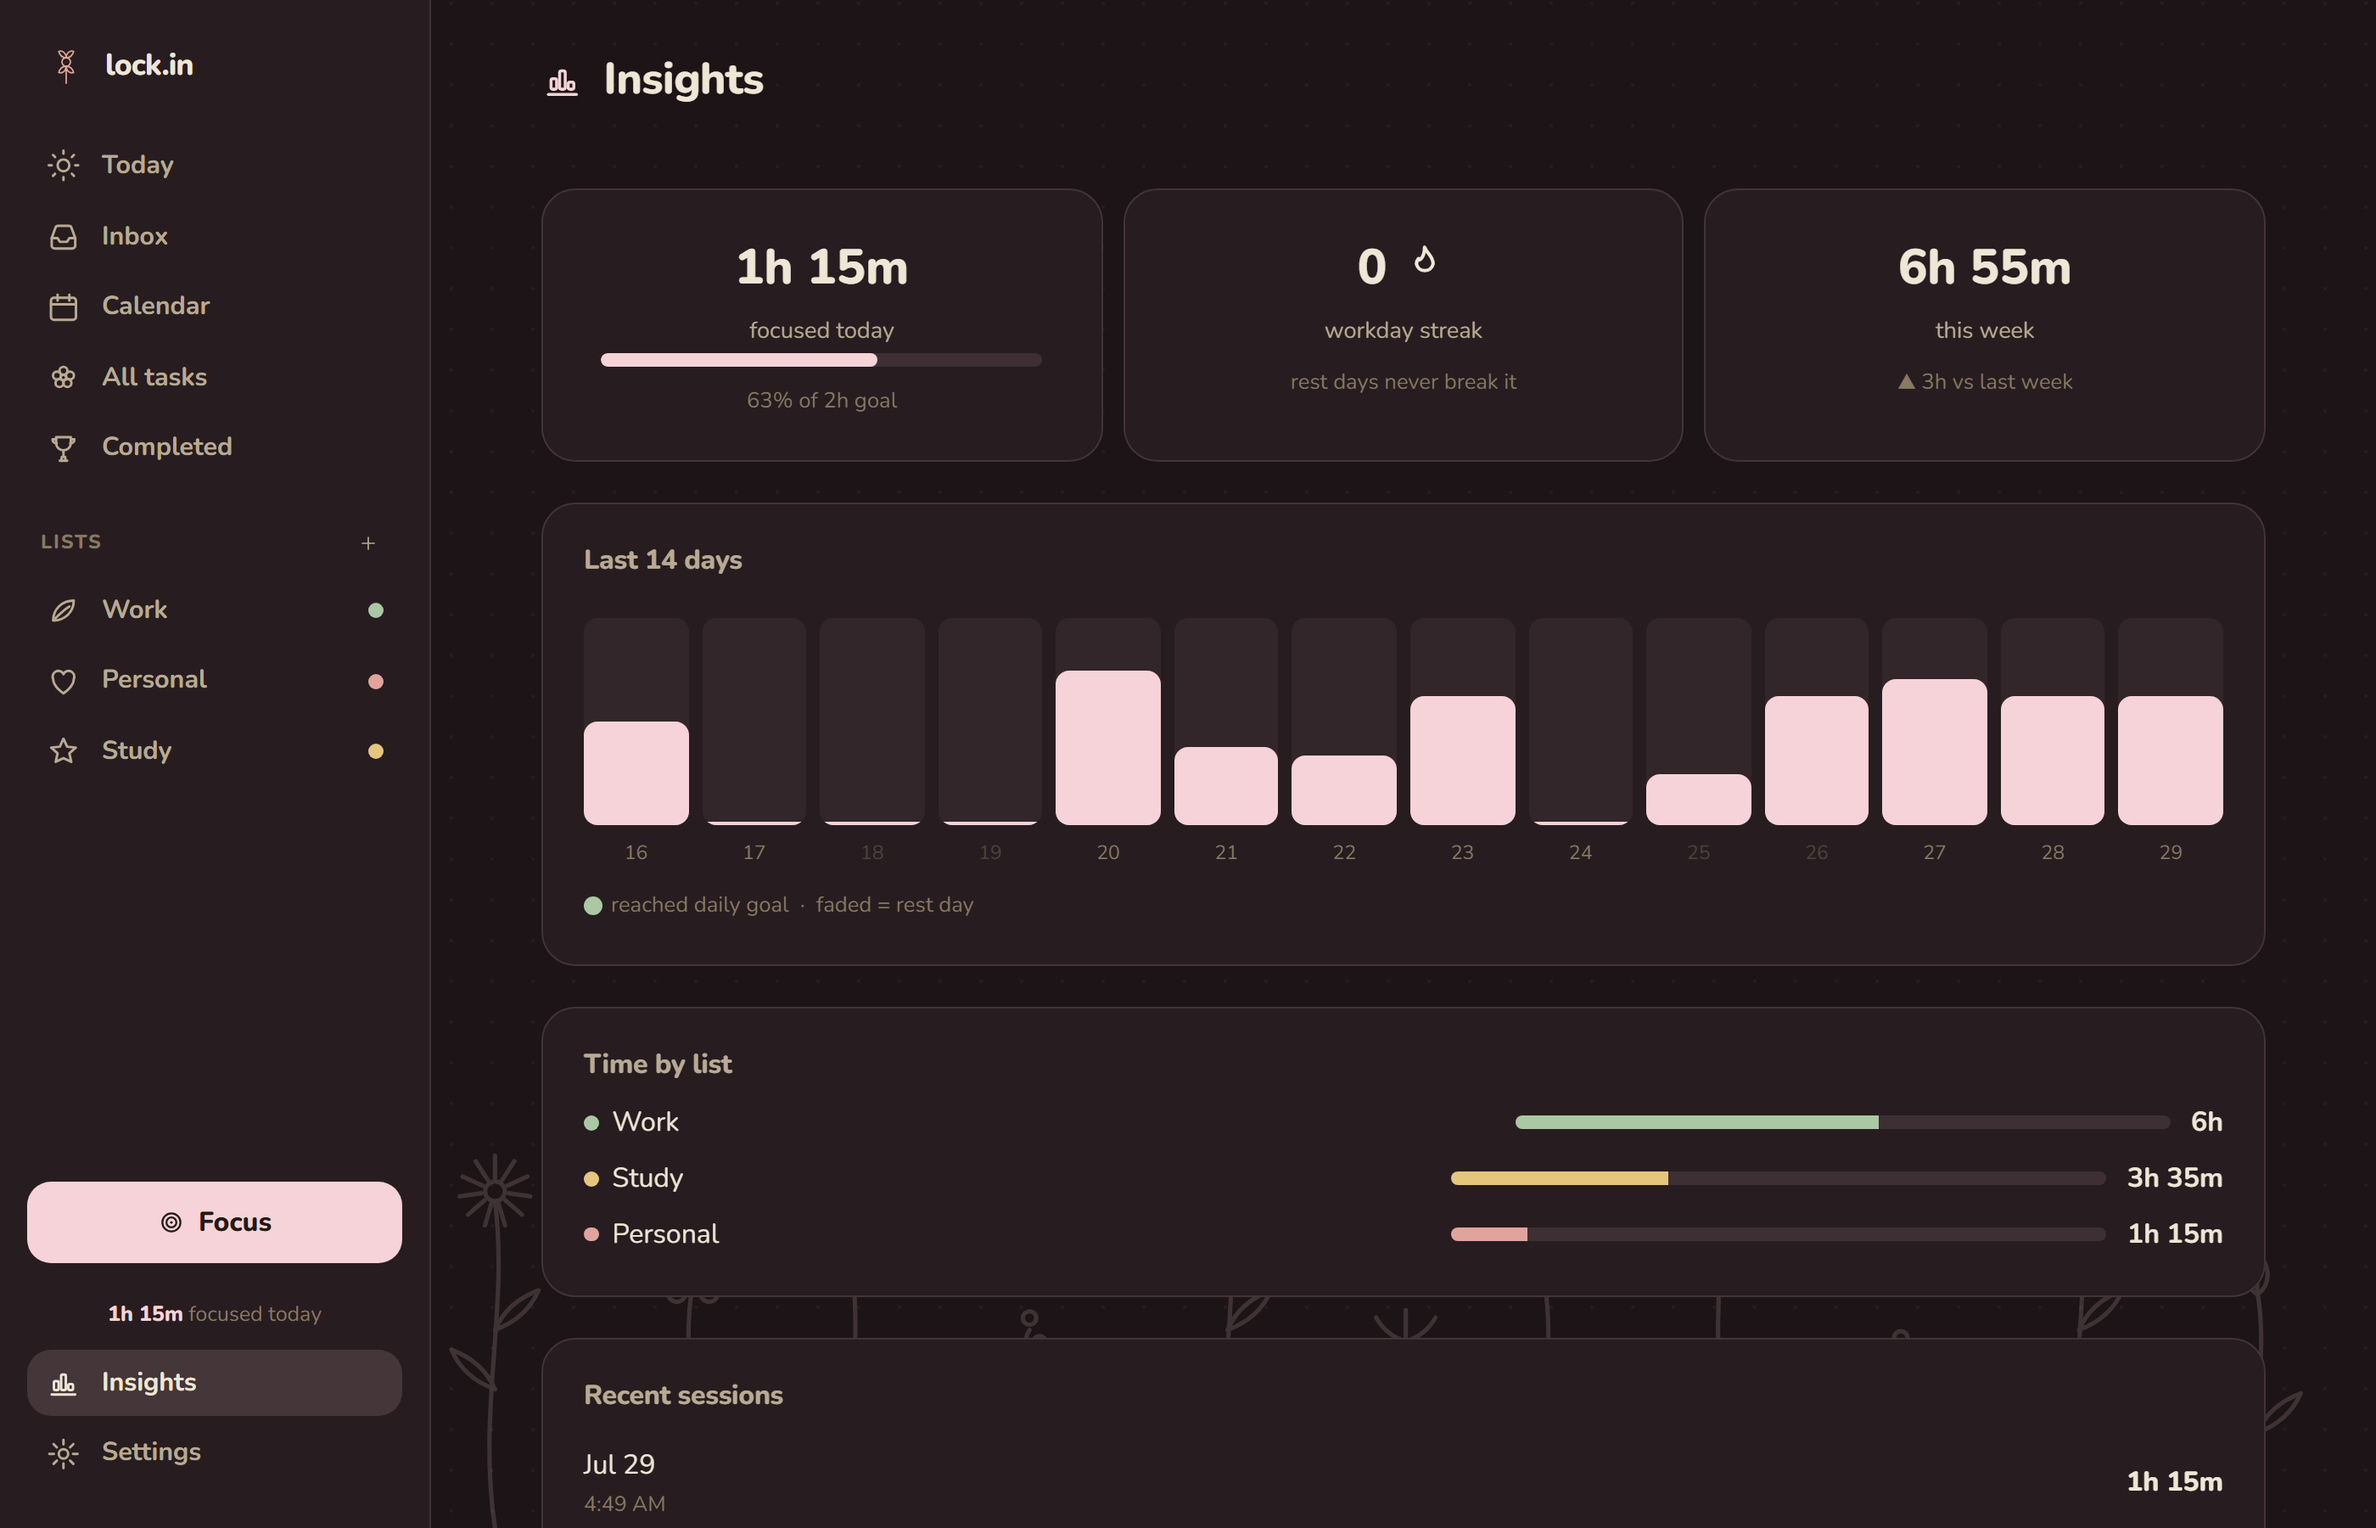
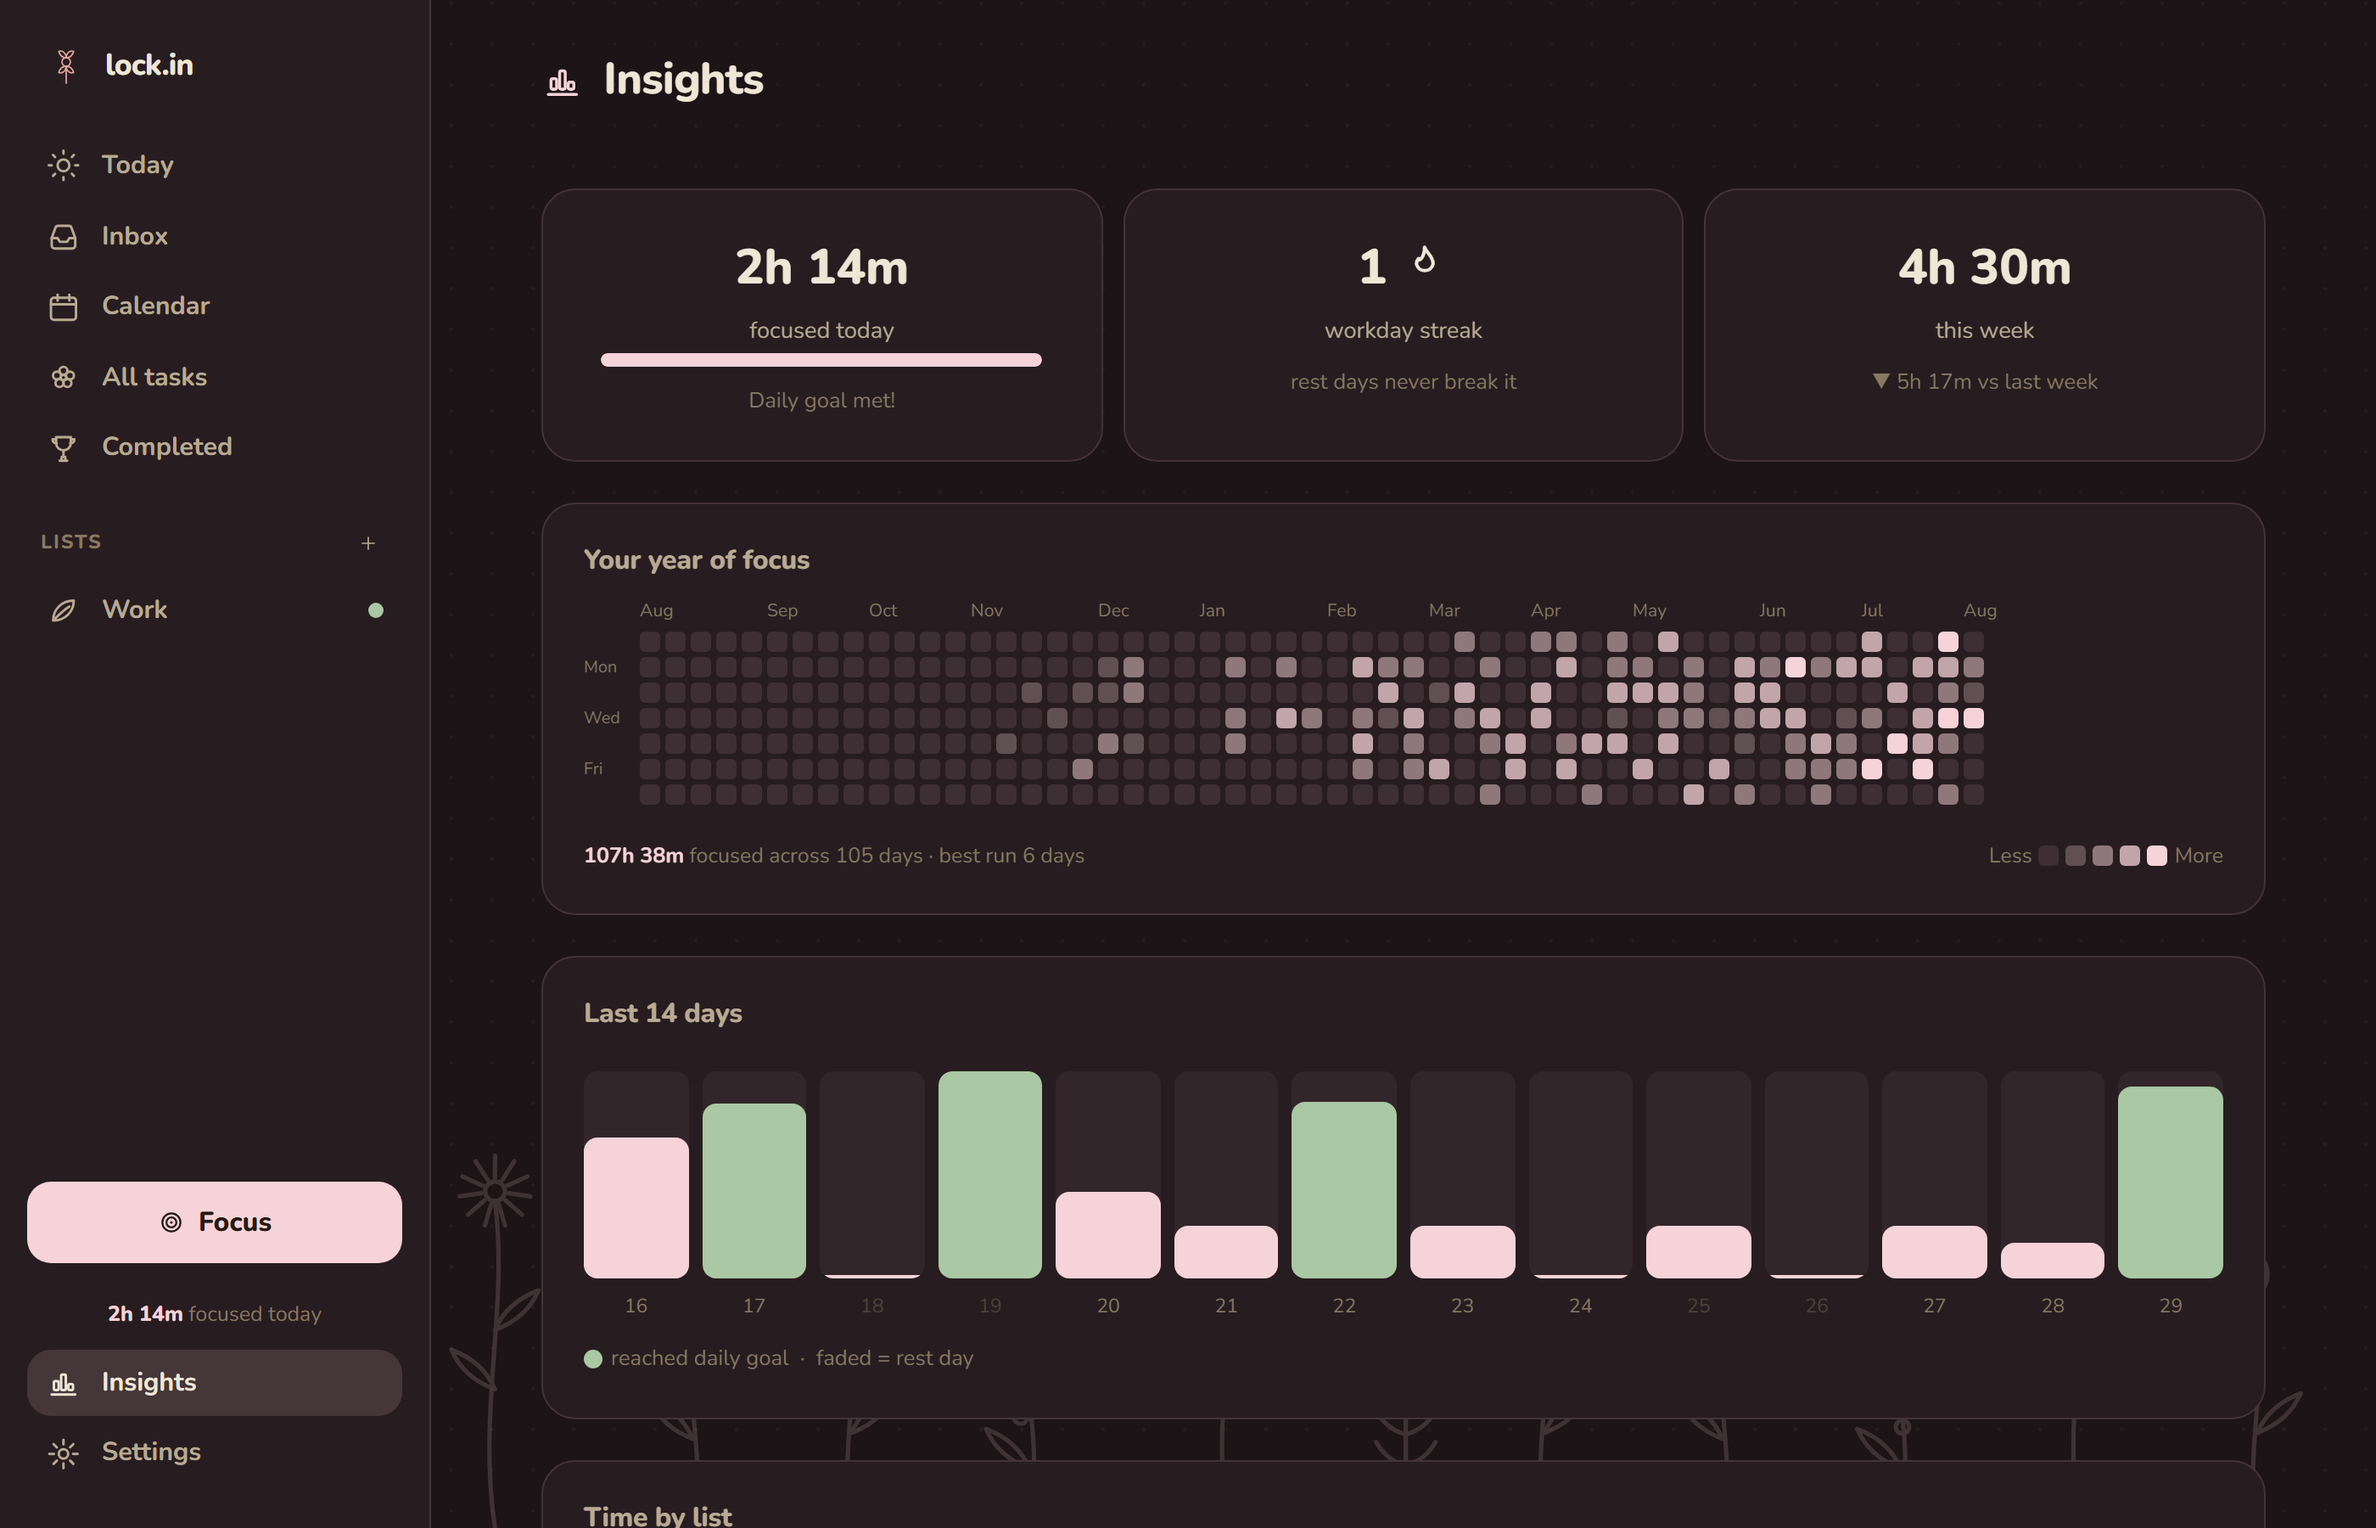
Add a year-of-focus heatmap to Insights
A contribution-graph style grid of the last 53 weeks, sitting above the 14-day
chart where it answers 'how much have I actually done' at a glance.

Intensity is measured against the daily goal rather than an arbitrary cut-off,
so the darkest square always means the goal was met. Days that haven't happened
yet stay blank, month labels only appear on weeks that genuinely start a month
(a partial month at the left edge would otherwise collide with the next label),
and the footer reports total time, active days and the longest run.

focusHeatmap() is pure and covered by 6 tests: week alignment, ending on the
current week, level thresholds, ignoring future days, run length and labelling.

Copilot-Session: 87884037-54d0-4967-b45f-3a055d461690

diff --git a/src/features/insights/aggregations.ts b/src/features/insights/aggregations.ts
@@ -148,6 +148,102 @@ export function currentStreak(
   return streak
 }
 
+export interface HeatCell {
+  dateKey: string
+  focusedMs: number
+  /** 0 = nothing, 4 = daily goal reached. */
+  level: 0 | 1 | 2 | 3 | 4
+}
+
+export interface HeatWeek {
+  /** Sunday-first; the leading week may start before the window. */
+  cells: HeatCell[]
+  /** Set on the first week of each month, for the labels across the top. */
+  monthLabel: string | null
+}
+
+export interface Heatmap {
+  weeks: HeatWeek[]
+  totalMs: number
+  /** Days with any focus at all. */
+  activeDays: number
+  /** Longest run of consecutive days with any focus. */
+  bestRun: number
+}
+
+const MONTHS = ['Jan', 'Feb', 'Mar', 'Apr', 'May', 'Jun', 'Jul', 'Aug', 'Sep', 'Oct', 'Nov', 'Dec']
+
+function levelFor(ms: number, goalMs: number): 0 | 1 | 2 | 3 | 4 {
+  if (ms <= 0) return 0
+  const pct = ms / goalMs
+  if (pct >= 1) return 4
+  if (pct >= 0.5) return 3
+  if (pct >= 0.25) return 2
+  return 1
+}
+
+/**
+ * A year of focus as a week-by-week grid, in the spirit of a contribution
+ * graph. Intensity is relative to the daily goal, so level 4 always means
+ * "hit the goal" rather than an arbitrary threshold.
+ */
+export function focusHeatmap(
+  segments: FocusSegment[],
+  settings: Settings,
+  nowTs: number = Date.now(),
+  weekCount = 53,
+): Heatmap {
+  const focus = focusedMsByDay(segments, nowTs)
+  const goalMs = Math.max(1, settings.dailyGoalMinutes * 60000)
+
+  // Walk back to the Sunday that starts the earliest week we show.
+  const today = new Date(nowTs)
+  today.setHours(12, 0, 0, 0)
+  const start = new Date(today)
+  start.setDate(start.getDate() - (weekCount - 1) * 7 - today.getDay())
+
+  const weeks: HeatWeek[] = []
+  let totalMs = 0
+  let activeDays = 0
+  let run = 0
+  let bestRun = 0
+  const cursor = new Date(start)
+  let lastMonth = -1
+
+  for (let w = 0; w < weekCount; w++) {
+    const cells: HeatCell[] = []
+    let monthLabel: string | null = null
+    for (let d = 0; d < 7; d++) {
+      const ts = cursor.getTime()
+      const dateKey = localDateKey(ts)
+      // Don't draw days that haven't happened yet.
+      const future = ts > today.getTime()
+      const focusedMs = future ? 0 : (focus.get(dateKey) ?? 0)
+      if (!future) {
+        totalMs += focusedMs
+        if (focusedMs > 0) {
+          activeDays++
+          run++
+          if (run > bestRun) bestRun = run
+        } else {
+          run = 0
+        }
+      }
+      cells.push({ dateKey, focusedMs, level: future ? 0 : levelFor(focusedMs, goalMs) })
+      // Label a column only when it actually contains the start of a month, so
+      // a partial month at the left edge doesn't crowd the next label.
+      if (cursor.getDate() <= 7 && cursor.getMonth() !== lastMonth) {
+        monthLabel = MONTHS[cursor.getMonth()]
+        lastMonth = cursor.getMonth()
+      }
+      cursor.setDate(cursor.getDate() + 1)
+    }
+    weeks.push({ cells, monthLabel })
+  }
+
+  return { weeks, totalMs, activeDays, bestRun }
+}
+
 export interface WeekComparison {
   thisWeekMs: number
   lastWeekMs: number

diff --git a/src/features/insights/aggregations.test.ts b/src/features/insights/aggregations.test.ts
@@ -4,6 +4,7 @@ import {
   completedByDay,
   currentStreak,
   weekComparison,
+  focusHeatmap,
 } from './aggregations'
 import type { FocusSegment, Task, Settings } from '../../domain/types'
 
@@ -103,5 +104,73 @@ describe('weekComparison', () => {
     expect(cmp.thisWeekMs).toBe(60 * 60000)
     expect(cmp.lastWeekMs).toBe(30 * 60000)
     expect(cmp.deltaMs).toBe(30 * 60000)
+  })
+})
+
+describe('focusHeatmap', () => {
+  // A Thursday, so the trailing week is partially in the future.
+  const now = new Date(2026, 6, 30, 15, 0, 0).getTime()
+
+  it('lays out whole Sunday-first weeks', () => {
+    const h = focusHeatmap([], settings, now, 5)
+    expect(h.weeks).toHaveLength(5)
+    for (const w of h.weeks) expect(w.cells).toHaveLength(7)
+    // Every row starts on a Sunday.
+    for (const w of h.weeks) {
+      expect(new Date(w.cells[0].dateKey + 'T12:00').getDay()).toBe(0)
+    }
+  })
+
+  it('ends on the week containing today', () => {
+    const h = focusHeatmap([], settings, now, 4)
+    const last = h.weeks[h.weeks.length - 1]
+    expect(last.cells.map((c) => c.dateKey)).toContain('2026-07-30')
+  })
+
+  it('scales levels against the daily goal', () => {
+    // goal is 60 min in the shared settings
+    const h = focusHeatmap(
+      [
+        daySeg(2026, 6, 27, 10), // 17% -> 1
+        daySeg(2026, 6, 28, 20), // 33% -> 2
+        daySeg(2026, 6, 29, 40), // 67% -> 3
+        daySeg(2026, 6, 30, 90), // over goal -> 4
+      ],
+      settings,
+      now,
+      3,
+    )
+    const byKey = new Map(h.weeks.flatMap((w) => w.cells).map((c) => [c.dateKey, c]))
+    expect(byKey.get('2026-07-27')?.level).toBe(1)
+    expect(byKey.get('2026-07-28')?.level).toBe(2)
+    expect(byKey.get('2026-07-29')?.level).toBe(3)
+    expect(byKey.get('2026-07-30')?.level).toBe(4)
+    expect(byKey.get('2026-07-26')?.level).toBe(0)
+  })
+
+  it('ignores days that have not happened yet', () => {
+    const h = focusHeatmap([daySeg(2026, 6, 30, 30)], settings, now, 2)
+    const future = h.weeks[h.weeks.length - 1].cells.find((c) => c.dateKey === '2026-07-31')
+    expect(future?.level).toBe(0)
+    // Only the one real day counts.
+    expect(h.activeDays).toBe(1)
+    expect(h.totalMs).toBe(30 * 60000)
+  })
+
+  it('reports the longest consecutive run of focused days', () => {
+    const h = focusHeatmap(
+      [daySeg(2026, 6, 27, 20), daySeg(2026, 6, 28, 20), daySeg(2026, 6, 30, 20)],
+      settings,
+      now,
+      3,
+    )
+    expect(h.bestRun).toBe(2)
+  })
+
+  it('labels the first week of each month once', () => {
+    const h = focusHeatmap([], settings, now, 10)
+    const labels = h.weeks.map((w) => w.monthLabel).filter(Boolean)
+    expect(labels.length).toBeGreaterThan(0)
+    expect(new Set(labels).size).toBe(labels.length)
   })
 })

diff --git a/src/components/FocusHeatmap.tsx b/src/components/FocusHeatmap.tsx
@@ -1,0 +1,60 @@
+import type { Heatmap } from '../features/insights/aggregations'
+import { formatMinutes } from '../lib/time'
+
+const ROW_LABELS = ['', 'Mon', '', 'Wed', '', 'Fri', '']
+
+/**
+ * A year of focus at a glance, in the spirit of a contribution graph. Intensity
+ * is relative to the daily goal, so the darkest square always means "goal met".
+ */
+export function FocusHeatmap({ map }: { map: Heatmap }) {
+  return (
+    <div className="heatmap">
+      <div className="heatmap-scroll">
+        <div className="heatmap-months">
+          {map.weeks.map((w, i) => (
+            <span key={i} className="heatmap-month">
+              {w.monthLabel ?? ''}
+            </span>
+          ))}
+        </div>
+        <div className="heatmap-body">
+          <div className="heatmap-days">
+            {ROW_LABELS.map((l, i) => (
+              <span key={i} className="heatmap-day-label">
+                {l}
+              </span>
+            ))}
+          </div>
+          <div className="heatmap-grid" role="img" aria-label="Focused time over the last year">
+            {map.weeks.map((w, i) => (
+              <div key={i} className="heatmap-week">
+                {w.cells.map((c) => (
+                  <span
+                    key={c.dateKey}
+                    className={`heatmap-cell heatmap-cell--${c.level}`}
+                    title={`${c.dateKey}: ${c.focusedMs > 0 ? formatMinutes(c.focusedMs / 60000) : 'no focus'}`}
+                  />
+                ))}
+              </div>
+            ))}
+          </div>
+        </div>
+      </div>
+      <div className="heatmap-foot">
+        <span className="heatmap-summary">
+          <strong>{formatMinutes(map.totalMs / 60000)}</strong> focused across {map.activeDays}{' '}
+          {map.activeDays === 1 ? 'day' : 'days'}
+          {map.bestRun > 1 && <> · best run {map.bestRun} days</>}
+        </span>
+        <span className="heatmap-legend">
+          Less
+          {[0, 1, 2, 3, 4].map((l) => (
+            <span key={l} className={`heatmap-cell heatmap-cell--${l}`} />
+          ))}
+          More
+        </span>
+      </div>
+    </div>
+  )
+}

diff --git a/src/app/app.css b/src/app/app.css
@@ -151,6 +151,98 @@
 .today-tally:hover {
   color: var(--fg-muted);
 }
+
+/* ===== Year-of-focus heatmap ===== */
+.heatmap {
+  --cell: 12px;
+  --cell-gap: 3px;
+}
+.heatmap-scroll {
+  overflow-x: auto;
+  padding-bottom: var(--space-2);
+}
+.heatmap-months {
+  display: flex;
+  gap: var(--cell-gap);
+  margin-left: calc(30px + var(--cell-gap));
+  margin-bottom: 4px;
+}
+.heatmap-month {
+  width: var(--cell);
+  flex: none;
+  font-size: 0.66rem;
+  color: var(--fg-subtle);
+  white-space: nowrap;
+}
+.heatmap-body {
+  display: flex;
+  gap: var(--cell-gap);
+}
+.heatmap-days {
+  display: flex;
+  flex-direction: column;
+  gap: var(--cell-gap);
+  width: 30px;
+  flex: none;
+}
+.heatmap-day-label {
+  height: var(--cell);
+  font-size: 0.62rem;
+  line-height: var(--cell);
+  color: var(--fg-subtle);
+}
+.heatmap-grid {
+  display: flex;
+  gap: var(--cell-gap);
+}
+.heatmap-week {
+  display: flex;
+  flex-direction: column;
+  gap: var(--cell-gap);
+}
+.heatmap-cell {
+  width: var(--cell);
+  height: var(--cell);
+  border-radius: 3px;
+  background: var(--surface-3);
+  display: block;
+  flex: none;
+}
+/* Flat steps toward the accent — no gradients, just four solid tints. */
+.heatmap-cell--1 {
+  background: var(--primary);
+  opacity: 0.28;
+}
+.heatmap-cell--2 {
+  background: var(--primary);
+  opacity: 0.5;
+}
+.heatmap-cell--3 {
+  background: var(--primary);
+  opacity: 0.75;
+}
+.heatmap-cell--4 {
+  background: var(--primary);
+  opacity: 1;
+}
+.heatmap-foot {
+  display: flex;
+  flex-wrap: wrap;
+  gap: var(--space-3);
+  align-items: center;
+  justify-content: space-between;
+  margin-top: var(--space-3);
+  font-size: 0.78rem;
+  color: var(--fg-subtle);
+}
+.heatmap-summary strong {
+  color: var(--primary);
+}
+.heatmap-legend {
+  display: flex;
+  align-items: center;
+  gap: 4px;
+}
 .sidebar,
 .content {
   position: relative;

diff --git a/src/features/insights/InsightsPage.tsx b/src/features/insights/InsightsPage.tsx
@@ -8,9 +8,11 @@ import {
   weekComparison,
   focusedMsByList,
   summarizeSessions,
+  focusHeatmap,
 } from './aggregations'
 import { formatMinutes } from '../../lib/time'
 import { Icon } from '../../components/Icon'
+import { FocusHeatmap } from '../../components/FocusHeatmap'
 import { Flourish } from '../../components/Flourish'
 import type { Weekday } from '../../domain/types'
 
@@ -28,6 +30,7 @@ export function InsightsPage() {
   const week = weekComparison(segments)
   const days = dailyStats(segments, tasks, 14)
   const maxMs = Math.max(goalMs, ...days.map((d) => d.focusedMs), 1)
+  const heatmap = focusHeatmap(segments, settings)
 
   const byList = focusedMsByList(segments, tasks)
   const listRows = [...byList.entries()]
@@ -86,6 +89,11 @@ export function InsightsPage() {
               </span>
             </div>
           </div>
+
+          <section className="card">
+            <h3 className="group-title">Your year of focus</h3>
+            <FocusHeatmap map={heatmap} />
+          </section>
 
           <section className="card">
             <h3 className="group-title">Last 14 days</h3>
